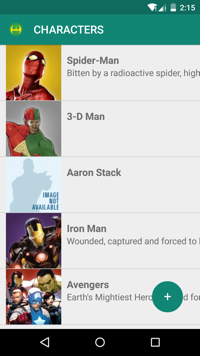
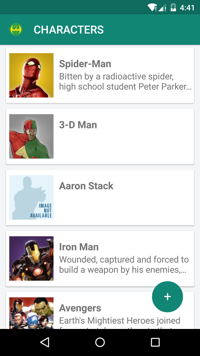
character list

diff --git a/js/tabs/characters/CharactersContentView.js b/js/tabs/characters/CharactersContentView.js
@@ -26,7 +26,6 @@ class CharactersContentView extends React.Component {
     super(props);
     this.handleIconClicked = this.handleIconClicked.bind(this);
     this.renderRow = this.renderRow.bind(this);
-    this.renderSeperator = this.renderSeperator.bind(this);
   }
 
   render() {
@@ -49,7 +48,6 @@ class CharactersContentView extends React.Component {
           dataSource={ds}
           renderRow={this.renderRow}
           renderScrollComponent={props => <RecyclerViewBackedScrollView {...props} />}
-          renderSeparator={this.renderSeperator}
         />
         <ActionButton
           buttonColor="rgb(18, 134, 117)"
@@ -59,20 +57,9 @@ class CharactersContentView extends React.Component {
     );
   }
 
-  renderSeperator(sectionID: number, rowID: number, adjacentRowHighlighted: bool) {
-      return (
-        <View
-          style={{
-            height: adjacentRowHighlighted ? 4 : 1,
-            backgroundColor: adjacentRowHighlighted ? '#3B5998' : '#CCCCCC',
-          }}
-        />
-      );
-    }
-
   renderRow(rowData: Character, sectionID: number, rowID: number, highlightRow: (sectionID: number, rowID: number) => void) {
       return (
-        <TouchableHighlight  onPress={() => {
+        <TouchableHighlight  underlayColor='rgba(255,255,255, 0.2)' style={{backgroundColor:'rgb(244,245,246)'}} onPress={() => {
             highlightRow(sectionID, rowID);
           }}>
             <View style={styles.row}>
@@ -81,7 +68,7 @@ class CharactersContentView extends React.Component {
                 <Text style={styles.title}>
                   {rowData.name}
                 </Text>
-                <Text style={styles.text}>
+                <Text numberOfLines={2} style={styles.text}>
                   {rowData.description}
                 </Text>
               </View>
@@ -126,19 +113,30 @@ var styles = StyleSheet.create({
   },
 
   row: {
-    paddingLeft: 10,
+    marginLeft: 10,
+    marginRight: 10,
+    marginTop: 5,
+    marginBottom: 5,
+    paddingLeft: 5,
+    paddingRight: 5,
     height: 100,
     width: undefined,
     flexDirection: 'row',
+    backgroundColor:'white',
+    borderColor: 'white',
+    borderWidth: 1,
+    borderRadius: 1,
+    elevation: 2,
   },
 
   thumb: {
-    width: 100,
-    height: 100,
+    width: 80,
+    height: undefined,
     alignItems: 'center',
     resizeMode:Image.resizeMode.contain,
     marginRight: 10,
   },
+
   title: {
     marginTop: 15,
     fontSize: 18,
@@ -147,7 +145,8 @@ var styles = StyleSheet.create({
 
   text: {
     fontSize: 16,
-    flex: 1,
+    paddingRight: 5,
+    width: 240,//TODO, how to let Text autofit the view width?
   }
 });
 

diff --git a/js/env.js b/js/env.js
@@ -5,7 +5,7 @@
 'use strict';
 
 module.exports = {
-  PublicKey: 'd128928f89eab7dca3a7f3c003c48f80',
-  PrivateKey: 'cd4ff2b15d809de5f84e369e03a7d399c52e4772',
+  PublicKey: '',
+  PrivateKey: '',
   serverUrl: 'http://gateway.marvel.com:80/v1/public/',
 };
